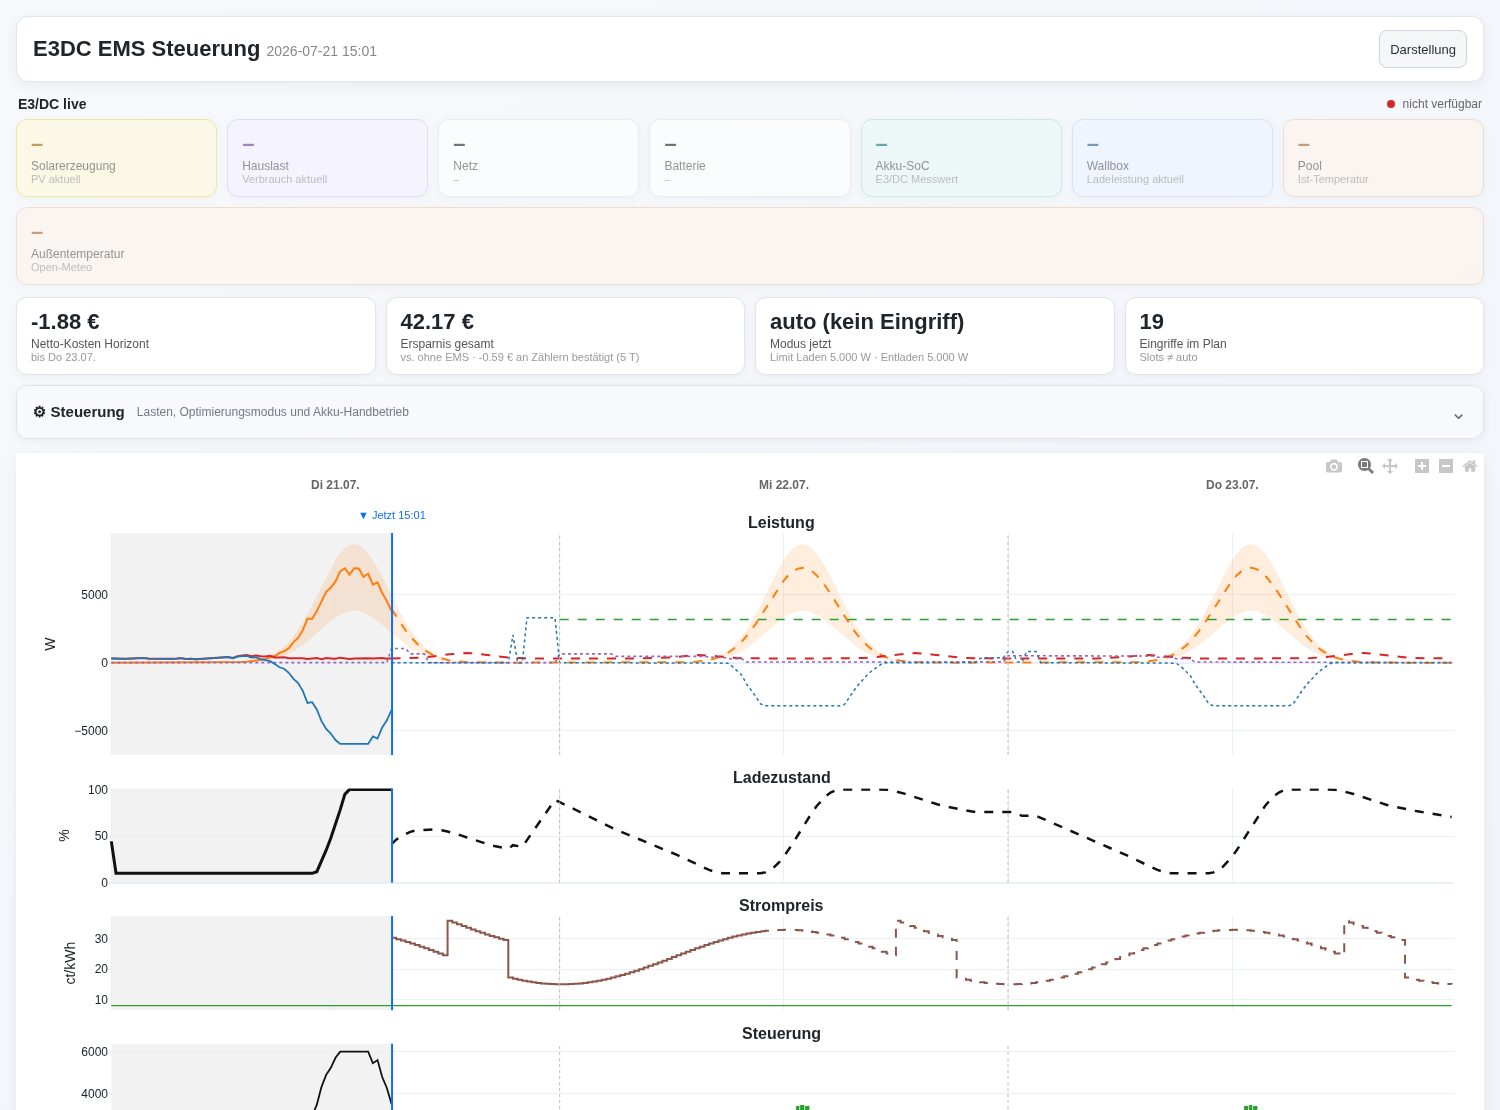
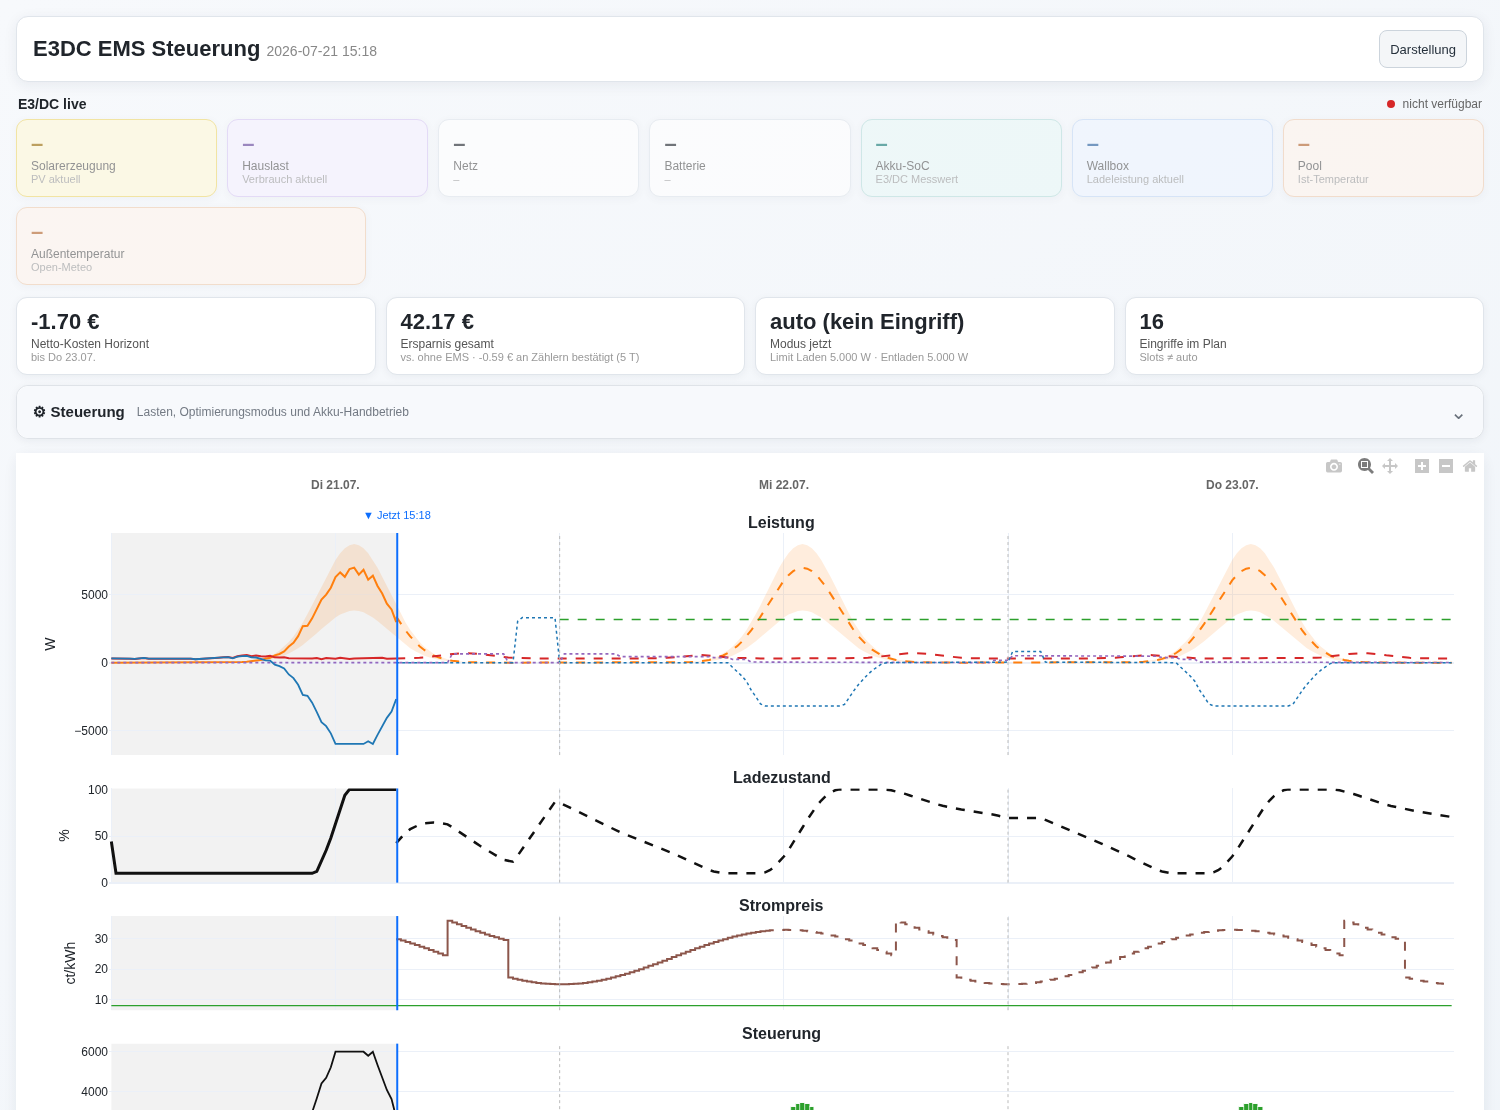
dashboard: Live-Kacheln ausbalancieren (keine breitgezogene Rest-Kachel)
.live-tiles .tile bekommt max-width: 320px. Volle Zeilen füllen weiter
gleichmäßig, aber eine einzelne Kachel in der letzten Zeile (z.B.
Außentemperatur als 8.) wird nicht mehr über die ganze Breite gezogen.
KPI-Kacheln unberührt. Beispiel-Dashboard (HTML/PNG) neu erzeugt.

diff --git a/ems/dashboard.py b/ems/dashboard.py
@@ -1180,6 +1180,10 @@ def build_dashboard(config: Config, table: pd.DataFrame, total_cost_ct: float,
         margin: 2px 2px 7px; font-size: 14px; }}
  .live-head #live-status {{ color: #666; font-size: 12px; font-weight: normal; }}
  .live-tiles {{ margin-bottom: 0; }}
+ /* Live-Kacheln nach oben begrenzen: volle Zeilen füllen weiter gleichmäßig,
+    aber eine einzelne Kachel in der letzten Zeile wird nicht mehr über die ganze
+    Breite gezogen (flex-grow). */
+ .live-tiles .tile {{ max-width: 320px; }}
  .live-tiles .tile {{ transition: background-color .25s, border-color .25s,
         color .25s; }}
  .live-tiles .live-solar {{ background: #fff8d8; border-color: #efd86e; }}